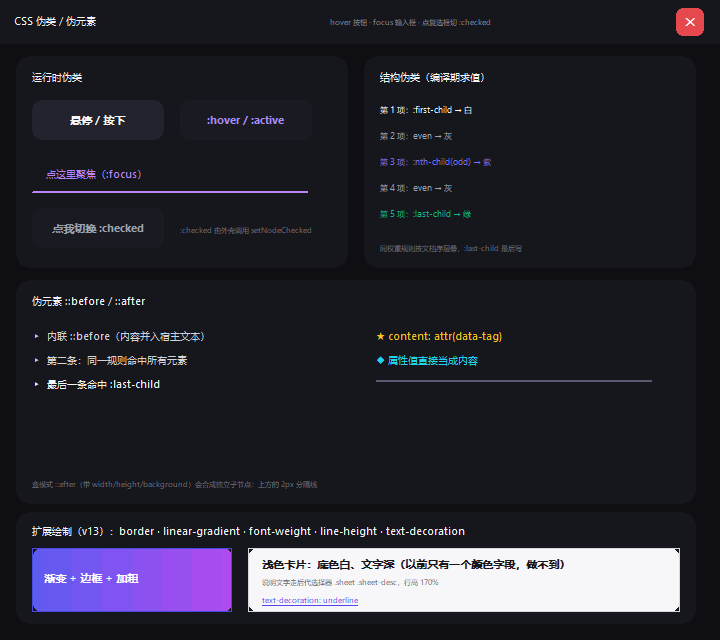
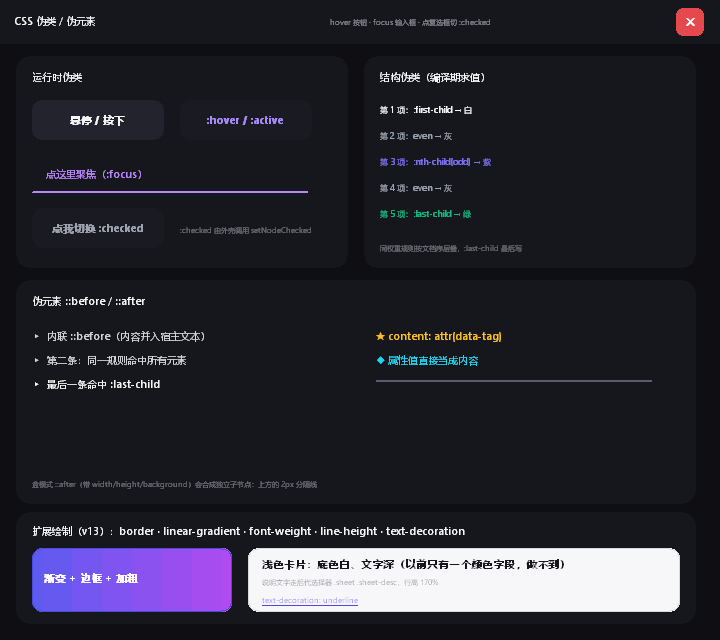
fix(text): GDI 画布后端改用灰度抗锯齿，去掉 ClearType 的彩色毛边
现象：字放大看是一圈红/蓝/黄的毛边，像"像素没对齐"。

根因是 CreateFontA 用了 DEFAULT_QUALITY —— 它等于"跟随系统设置"：系统开着
ClearType 时 GDI 做次像素渲染（R/G/B 三个分量各自算覆盖），把字画到有色背景
的离屏 DIB 上就会渗出彩色边。两个 GPU 后端走 FreeType 灰度字形（单通道 alpha），
从来没有这个问题，所以只有 GDI 那一路"脏"。

改动：
- 7 处 CreateFontA 统一走 gGdiFontQuality，默认 ANTIALIASED_QUALITY（灰度抗锯齿）；
  编译期可用 -DBINUI_GDI_FONT_QUALITY=DEFAULT_QUALITY 退回旧行为。
- docs/img/cssshow.png 用新设置重渲染。
- README 补一段说明。

验证：probe 按钮文字 6 倍放大后无彩色边（对比图在提交说明里），
make all/tools 零警告，make test 全绿，check_examples 16 个 UI 0 问题。

diff --git a/src/platform/app_win32.cpp b/src/platform/app_win32.cpp
@@ -289,6 +289,16 @@ LRESULT CALLBACK WndProc(HWND hwnd, UINT msg, WPARAM wParam, LPARAM lParam) {
 // 光标闪烁（500ms 周期），绘制与脏矩形刷新共用同一相位
 static std::string gGdiFontName = "Segoe UI";
 
+// 字体的抗锯齿质量。**不能再用 DEFAULT_QUALITY**：那等于"跟随系统设置"，
+// 系统开着 ClearType 时 GDI 会做次像素（RGB 分量各自覆盖）渲染，把字画到
+// 有色背景的离屏 DIB 上就会渗出红/蓝/黄的毛边 —— 放大看就是"像素没对齐"。
+// 两个 GPU 后端走的是 FreeType 灰度字形（单通道 alpha），不会这样；
+// 这里用 ANTIALIASED_QUALITY 强制灰度抗锯齿，三端观感一致。
+#ifndef BINUI_GDI_FONT_QUALITY
+#define BINUI_GDI_FONT_QUALITY ANTIALIASED_QUALITY
+#endif
+static const int gGdiFontQuality = BINUI_GDI_FONT_QUALITY;
+
 void setGdiFontName(const char* name) { if (name && *name) gGdiFontName = name; }
 
 bool caretBlinkOn() {
@@ -801,7 +811,7 @@ void drawNodesGDI(void* hdcCtx, const BinUIRenderer& renderer, const void* clipR
                     fs, 0, 0, 0, fw >= 600 ? FW_BOLD : FW_NORMAL,
                     FALSE, FALSE, FALSE, DEFAULT_CHARSET,
                     OUT_DEFAULT_PRECIS, CLIP_DEFAULT_PRECIS,
-                    DEFAULT_QUALITY, DEFAULT_PITCH, gGdiFontName.c_str());
+                    gGdiFontQuality, DEFAULT_PITCH, gGdiFontName.c_str());
                 HGDIOBJ oldFont = SelectObject(hdc, font);
                 RECT tr = { x + pad, y, x + nw - pad, y + nh };
                 std::wstring wtext = Utf8ToWide(node.text);
@@ -873,7 +883,7 @@ void drawNodesGDI(void* hdcCtx, const BinUIRenderer& renderer, const void* clipR
                         node.fontSize ? node.fontSize : 14, 0, 0, 0, FW_BOLD,
                         FALSE, FALSE, FALSE, DEFAULT_CHARSET,
                         OUT_DEFAULT_PRECIS, CLIP_DEFAULT_PRECIS,
-                        DEFAULT_QUALITY, DEFAULT_PITCH, gGdiFontName.c_str());
+                        gGdiFontQuality, DEFAULT_PITCH, gGdiFontName.c_str());
                     HGDIOBJ oldFont = SelectObject(hdc, font);
                     RECT tr = { x + pad, y, x + nw - pad, y + nh };
                     // 文本是 UTF-8：必须转宽字符用 DrawTextW。早先用 DrawTextA，
@@ -911,7 +921,7 @@ void drawNodesGDI(void* hdcCtx, const BinUIRenderer& renderer, const void* clipR
                         node.fontSize ? node.fontSize : 14, 0, 0, 0, FW_NORMAL,
                         FALSE, FALSE, FALSE, DEFAULT_CHARSET,
                         OUT_DEFAULT_PRECIS, CLIP_DEFAULT_PRECIS,
-                        DEFAULT_QUALITY, DEFAULT_PITCH, gGdiFontName.c_str());
+                        gGdiFontQuality, DEFAULT_PITCH, gGdiFontName.c_str());
                     HGDIOBJ oldFont = SelectObject(hdc, font);
                     RECT tr = { x + pad + 4, y, x + nw - pad - 4, y + nh };
 
@@ -963,7 +973,7 @@ void drawNodesGDI(void* hdcCtx, const BinUIRenderer& renderer, const void* clipR
                         fw >= 600 ? FW_BOLD : FW_NORMAL,
                         FALSE, FALSE, FALSE, DEFAULT_CHARSET,
                         OUT_DEFAULT_PRECIS, CLIP_DEFAULT_PRECIS,
-                        DEFAULT_QUALITY, DEFAULT_PITCH, gGdiFontName.c_str());
+                        gGdiFontQuality, DEFAULT_PITCH, gGdiFontName.c_str());
                     HGDIOBJ oldFont = SelectObject(hdc, font);
                     RECT tr = { x + pad + 12, y + pad + 8, x + nw - pad - 12, y + nh - pad - 8 };
                     const UINT halign = (node.flags & BINUI_TEXT_CENTER) ? DT_CENTER
@@ -998,7 +1008,7 @@ void drawNodesGDI(void* hdcCtx, const BinUIRenderer& renderer, const void* clipR
                     HFONT font = CreateFontA(24, 0, 0, 0, FW_LIGHT,
                         FALSE, FALSE, FALSE, DEFAULT_CHARSET,
                         OUT_DEFAULT_PRECIS, CLIP_DEFAULT_PRECIS,
-                        DEFAULT_QUALITY, DEFAULT_PITCH, gGdiFontName.c_str());
+                        gGdiFontQuality, DEFAULT_PITCH, gGdiFontName.c_str());
                     HGDIOBJ oldFont = SelectObject(hdc, font);
                     std::wstring wtext = Utf8ToWide(node.text);
                     DrawTextW(hdc, wtext.c_str(), -1, &rc,
@@ -1103,7 +1113,7 @@ void drawNodesGDI(void* hdcCtx, const BinUIRenderer& renderer, const void* clipR
                             SetBkMode(hdc, TRANSPARENT);
                             HFONT font = CreateFontA(12, 0, 0, 0, FW_NORMAL, FALSE, FALSE, FALSE,
                                 DEFAULT_CHARSET, OUT_DEFAULT_PRECIS, CLIP_DEFAULT_PRECIS,
-                                DEFAULT_QUALITY, DEFAULT_PITCH, gGdiFontName.c_str());
+                                gGdiFontQuality, DEFAULT_PITCH, gGdiFontName.c_str());
                             HGDIOBJ oldFont = SelectObject(hdc, font);
                             RECT timeR = { x + nw - 76, barTop, x + nw - 8, barTop + (int)BinUIRenderer::kVideoBarH };
                             DrawTextA(hdc, label, -1, &timeR, DT_RIGHT | DT_VCENTER | DT_SINGLELINE);
@@ -1183,7 +1193,7 @@ void placeCaretAtClick(binui::BinUIRenderer& renderer, float cx, float cy) {
         node->fontSize ? node->fontSize : 14, 0, 0, 0, FW_NORMAL,
         FALSE, FALSE, FALSE, DEFAULT_CHARSET,
         OUT_DEFAULT_PRECIS, CLIP_DEFAULT_PRECIS,
-        DEFAULT_QUALITY, DEFAULT_PITCH, gGdiFontName.c_str());
+        gGdiFontQuality, DEFAULT_PITCH, gGdiFontName.c_str());
     HGDIOBJ oldFont = SelectObject(hdc, font);
 
     std::wstring wtext = Utf8ToWide(edit.value);

diff --git a/README.md b/README.md
@@ -233,6 +233,7 @@ HTML5 编译规则：
 - **结构伪类（编译期求值，不占运行时开销）**：`:first-child` / `:last-child` / `:only-child` / `:nth-child(An+B|odd|even|n)` / `:nth-last-child()` / `:first-of-type` / `:last-of-type` / `:only-of-type` / `:nth-of-type()` / `:nth-last-of-type()` / `:not(简单选择器)` / `:root`。兄弟序号只统计"会参与布局的元素"（`head`/`meta`/`script`/`style`/`app_window` 不计入）；`display:none` 的元素仍被计数（与浏览器一致的差异点）。伪类可与状态伪类叠加（`li:first-child:hover`）。
 - **伪元素 `::before` / `::after`（编译期合成）**：必须有 `content`。**内联模式**（声明里没有盒属性）把内容字符串前插/后附到宿主自身文本——`li::before{content:"▸ "}` 这类项目符号走这条路，且宿主带的自动项目符号会被抑制；**盒模式**（出现 `width/height/background*/border-radius/padding/margin/display/border/position` 之一）合成一个 `div` 子节点（`BINUI_LIST`，只有它会填底色），`content:""` 即纯装饰分隔条；盒模式未声明 `background` 时按透明处理并警告。`content` 支持普通字符串、转义（`\25B8` 码点、`\"`、`\n`）与 `attr(属性名)`；`counter()/counters()` 无计数器系统（警告后按空内容处理）。内联伪元素与宿主共用字号/颜色（同一节点只有一个文本样式），在那里写 `color`/`font-size` 会警告并忽略——需要独立样式就用盒模式。
 - **不支持的伪类/伪元素会明确警告**：`:visited`/`:disabled`/`:focus-within`/`:link` 等交互伪类，以及 `::first-line`/`::first-letter`/`::selection`/`::placeholder`/`::marker`（没有对应渲染阶段，不假装支持）。
+- **GDI 画布后端的文字抗锯齿**：强制 `ANTIALIASED_QUALITY`（灰度抗锯齿），不用 `DEFAULT_QUALITY`。原因是后者"跟随系统设置"——系统开着 ClearType 时，字被画到有色背景的离屏 DIB 上会渗出红/蓝/黄毛边，放大看就是"像素没对齐"；两个 GPU 后端本来就是 FreeType 灰度字形（单通道 alpha），没有这个问题。要换回去可在编译期定义 `-DBINUI_GDI_FONT_QUALITY=DEFAULT_QUALITY`。
 - **已知不生效的 CSS 属性会打编译警告**（每条属性全文档只提示一次）：`box-shadow`、`text-shadow`、`letter-spacing`、`font-style`、`white-space`、`visibility`、`float`、`flex-wrap`、`flex-shrink`、`align-self`、`order`、`outline`、`cursor`、`grid-template-columns`、`text-overflow`、`object-fit`、**`right` / `bottom` / `inset`**（定位只认 `left`/`top`）、静态 `transform`（只有状态伪类里的 `transform:scale()` 生效）、`filter`、`aspect-ratio`。`border` / `font-weight` / `line-height` / `text-decoration` 从 v13 起已实现，不再告警。
 - 画布背景：根（`<html>`/`<binui>`）**默认白色**，可写 `bg="#121212"` 或 `background:rgba(...)` 自行设置；GPU 后端（D3D11/OpenGL）按 RGBA alpha 与底色合成，未指定即不透明白（GDI 后端为不透明 RGB）。
 - `<app_window>` 窗口层：编译期最外层包裹元素（**不进节点树、不可操作**），定义窗口属性——`width/height`（显式或按内容包围盒推断）、`bg`（画布背景，带 alpha 自动开启透明窗口）、`resizable="false"`（禁用拖边缩放）、`aspect="16:9"`（等比缩放，仅可配 `window_resize="aspect"` 一起用）、`transparent="true"`（窗口级透明，画布 alpha 透出桌面）、**`ui_scale="proportional"`（等比 UI 缩放：resize 时整棵节点树——坐标/尺寸/字号/圆角——随窗口比例缩放，命中测试自动一致；固定像素布局也能跟手缩放）**、`title`。**`window_resize`：三态窗口缩放控制（`allow` 允许缩放 / `disable` 禁用缩放 / `aspect` 仅等比例调整），覆盖 `resizable`/`aspect`——`aspect` 未显式给 `aspect="N:M"` 时按窗口初始宽高比兜底**。编译为窗口描述段，外壳经 `renderer.windowDesc()` 读取后创建窗口；无 `<app_window>` 时以 `<html>`/`<binui>` 的尺寸/背景兜底。
